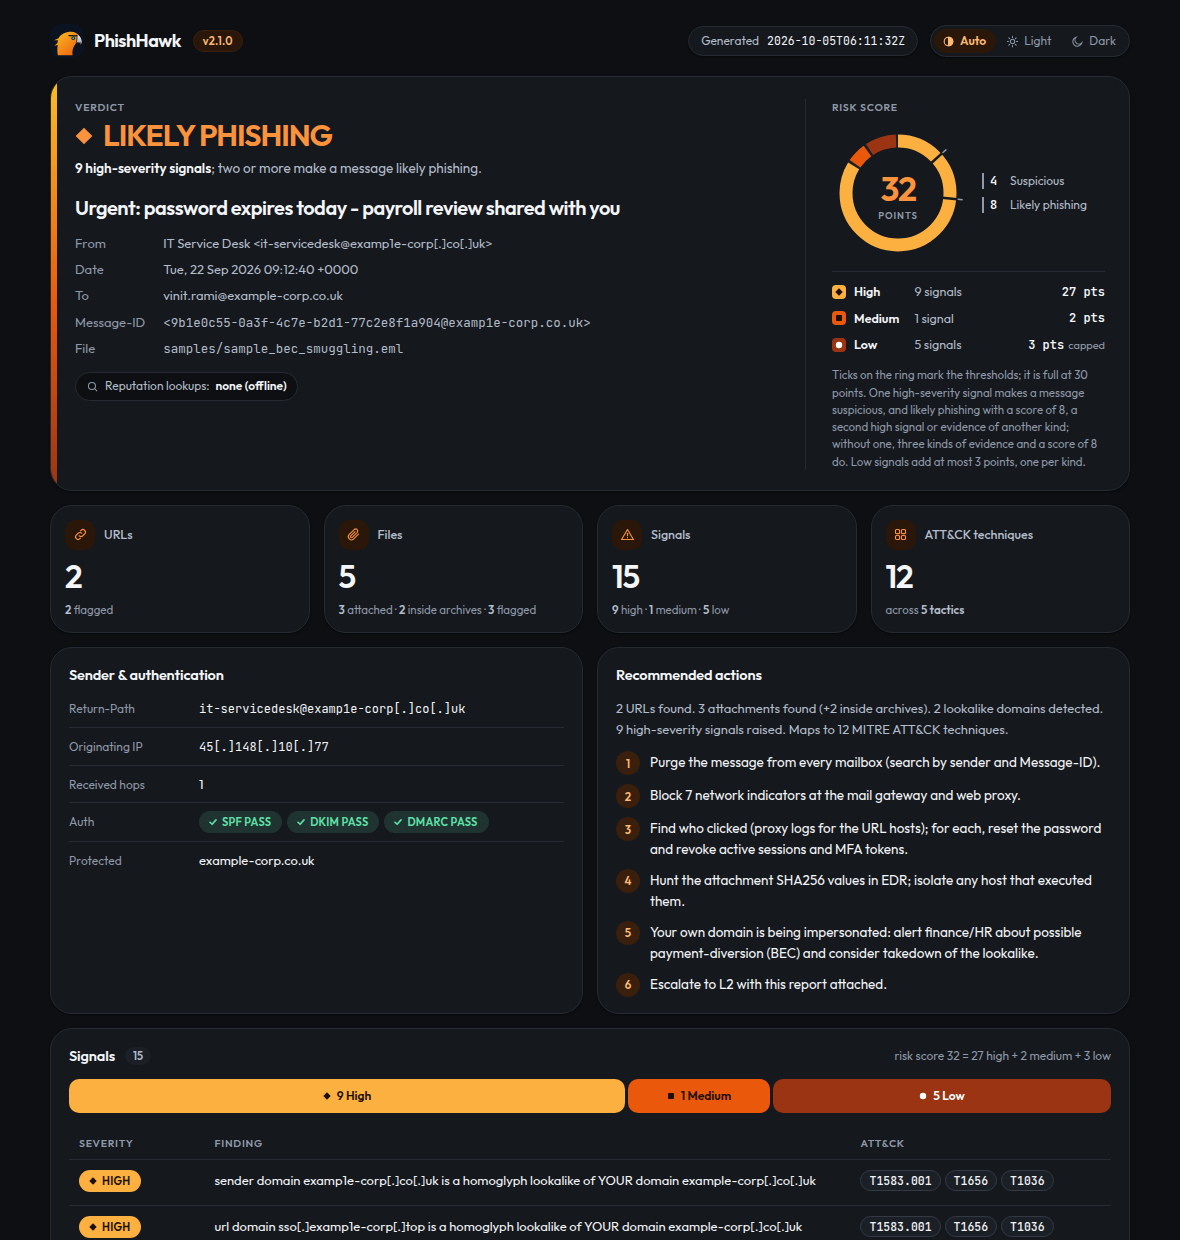
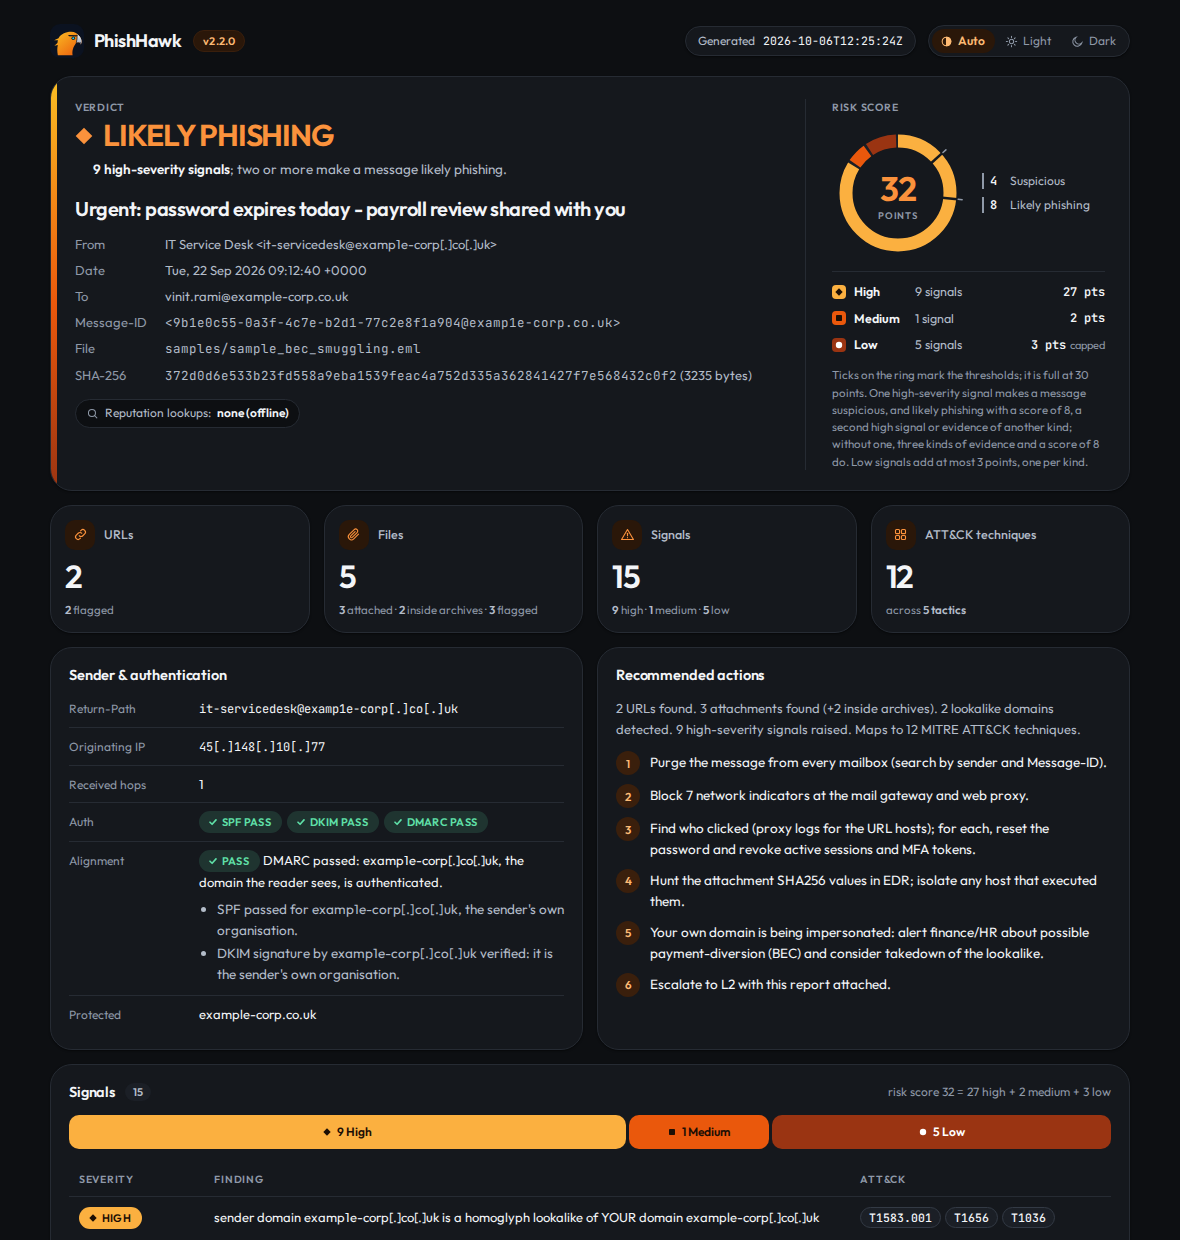
Take the HTML report screenshots again from 2.2 (#23)
tools/make_report_shots.py on the BEC sample: v2.2.0 in the header, the
message's SHA-256 and the alignment explanation; the README describes the
printed pages as they now fall.

diff --git a/README.md b/README.md
@@ -370,7 +370,7 @@ means an input could not be read or a report could not be written.
 | Flag | Best for | Notes |
 |---|---|---|
 | *(default)* | The analyst | Colour terminal report. `--quiet` gives one block per mail; `--verbose` shows everything. |
-| `--html PATH` | The ticket, L2, a manager | Self-contained, in the IntelPulse console's design and the PhishHawk logo's amber-orange. A score ring shows where the risk score came from, split by severity, with the verdict thresholds marked. Opens in the reader's light or dark mode, and an Auto / Light / Dark switch changes it without a script. Prints to A4 with page numbers: the summary on page one, the evidence after it. A strict Content-Security-Policy blocks scripts and network access, every value is escaped, and malicious URLs are never clickable. |
+| `--html PATH` | The ticket, L2, a manager | Self-contained, in the IntelPulse console's design and the PhishHawk logo's amber-orange. A score ring shows where the risk score came from, split by severity, with the verdict thresholds marked. Opens in the reader's light or dark mode, and an Auto / Light / Dark switch changes it without a script. Prints to A4 with page numbers: the summary first, the evidence from a fresh page after it. A strict Content-Security-Policy blocks scripts and network access, every value is escaped, and malicious URLs are never clickable. |
 | `--json PATH` | SOAR playbooks, scripts | Verdict, score, signals, techniques, indicators and actions, in a format published as a [JSON Schema](docs/report.schema.json). Message bodies are left out. |
 | `--stix PATH` | OpenCTI, Sentinel TI | STIX 2.1 bundle, validated against the official `stix2` library in CI. IDs are deterministic, so one URL reported by fifty users imports as one indicator. |
 | `--misp PATH` | MISP | A MISP event per message: every indicator as an attribute, an email object, ATT&CK galaxy tags and a TLP tag. |
@@ -379,11 +379,11 @@ means an input could not be read or a report could not be written.
 
 <picture>
   <source media="(prefers-color-scheme: dark)" srcset="docs/images/report-dark.png">
-  <img alt="The HTML report for the BEC sample: the verdict and why, the risk score ring split into high, medium and low points, counts of URLs, files, signals and ATT&CK techniques, sender authentication, recommended actions, and the signals table with severity badges" src="docs/images/report-light.png" width="760">
+  <img alt="The HTML report for the BEC sample: the verdict and why, the message's details with its SHA-256, the risk score ring split into high, medium and low points, counts of URLs, files, signals and ATT&CK techniques, sender authentication with the alignment explained in sentences, recommended actions, and the signals table with severity badges" src="docs/images/report-light.png" width="760">
 </picture>
 
 <p align="center">
-  <img alt="The same report printed to A4: page one holds the verdict, the counts, sender and authentication, and the recommended actions; page two starts the evidence with the signals and lookalike domains" src="docs/images/report-print.png" width="760">
+  <img alt="The same report printed to A4: page one holds the verdict, the message's details with its SHA-256, and the counts; page two holds sender and authentication, with the alignment explained, and the recommended actions; the evidence starts on the next page" src="docs/images/report-print.png" width="760">
 </p>
 
 <sub>Printed from a browser, or saved as PDF. Section headers repeat on every page, and rows never split

diff --git a/CHANGELOG.md b/CHANGELOG.md
@@ -19,6 +19,8 @@ the JSON and STIX output are the public interface.
   (the banner said v2.1.0; the demo now shows the message's SHA-256 and the
   authentication explanation).
 - `SECURITY.md` points every unsupported version at 2.2.0.
+- The HTML report screenshots are taken again from 2.2 (they showed v2.1.0
+  and no SHA-256 or alignment explanation).
 
 ### Fixed
 
